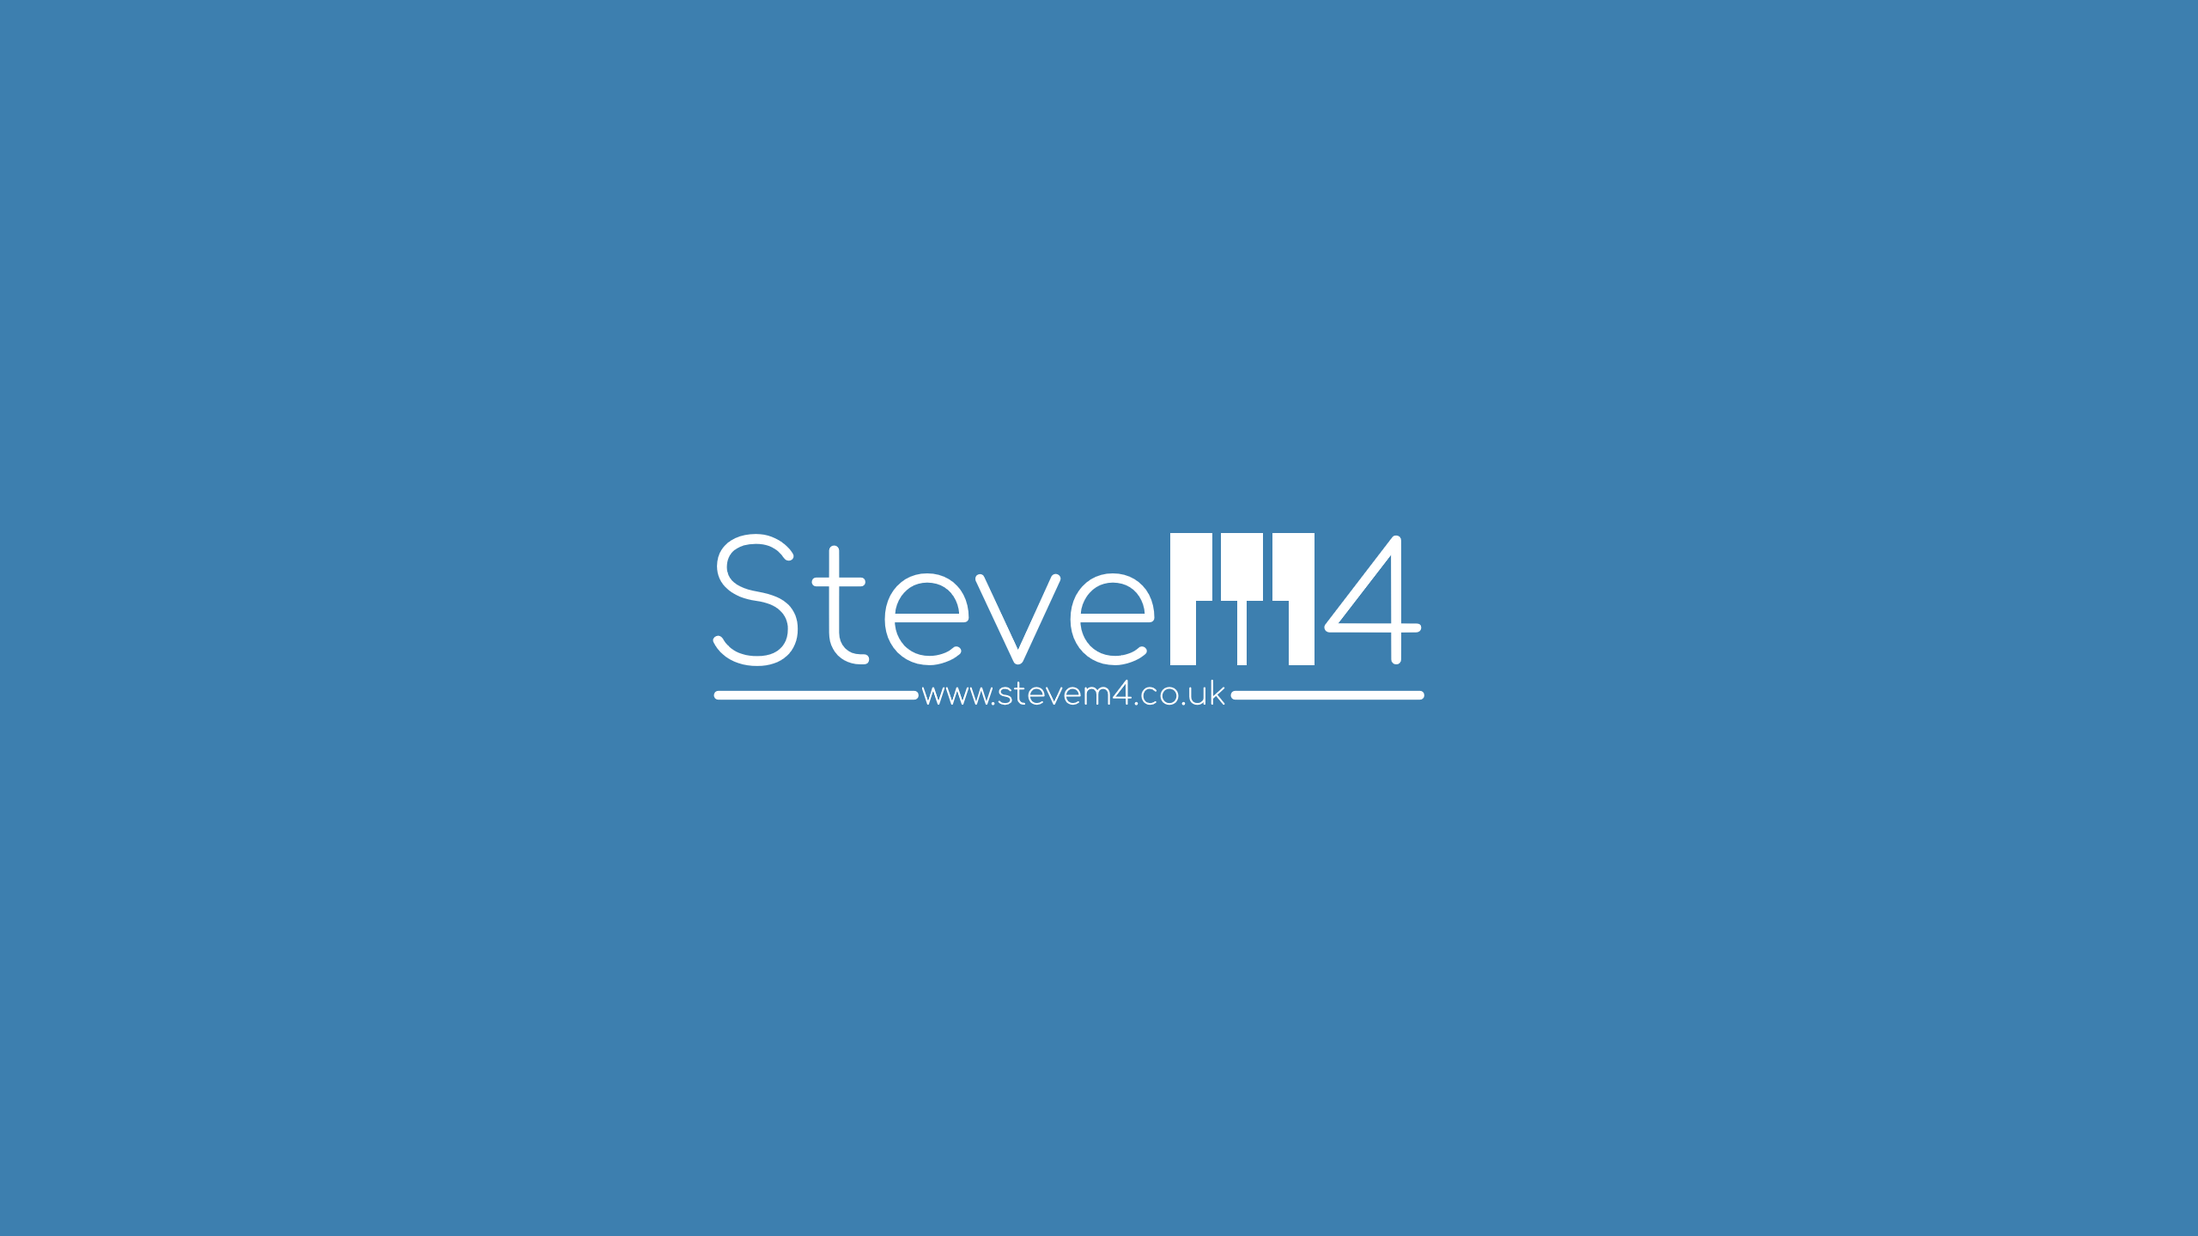
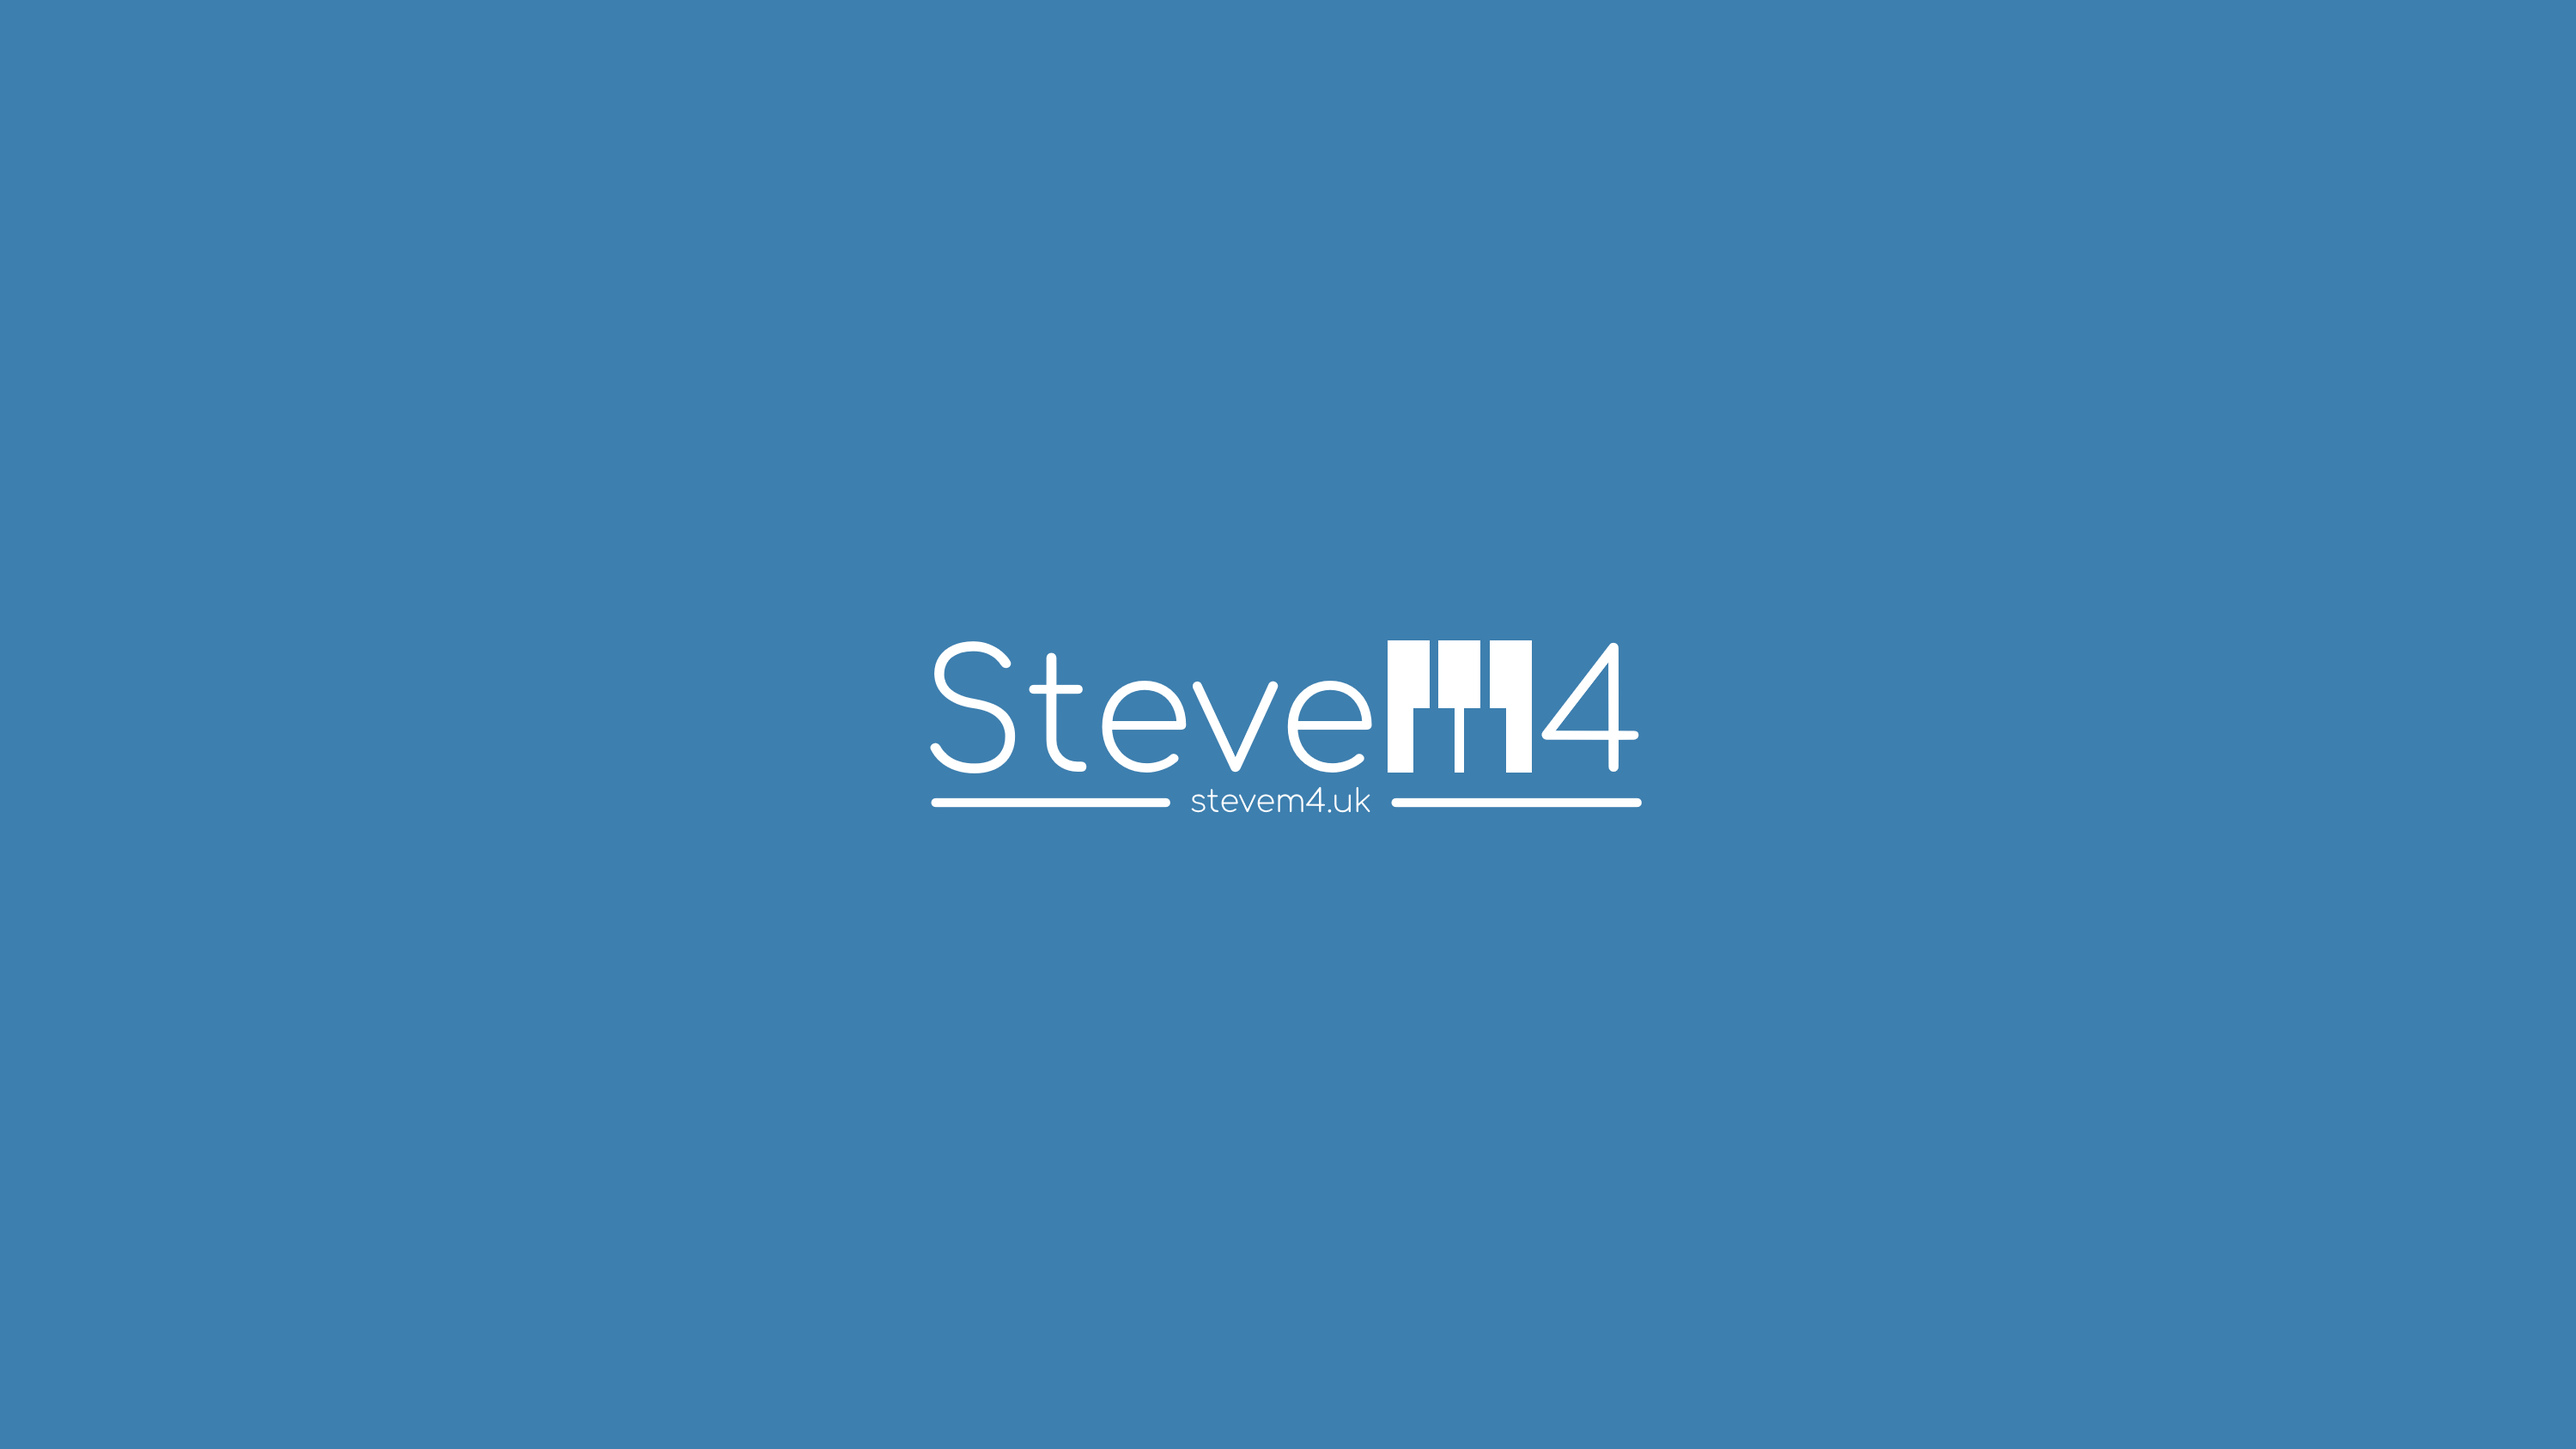
Add files via upload

Changed region(s): [[0.3125, 0.4062, 0.6562, 0.5938]]

diff --git a/index.html b/index.html
@@ -4,7 +4,7 @@
 <meta name="twitter:site" content="@tunesbystevem4">
 <meta name="twitter:creator" content="@stevemagnet">
 <meta name="twitter:title" content="SteveM4.uk">
-<meta name="twitter:description" content="SteveM4.co.uk, the official site.">
+<meta name="twitter:description" content="SteveM4.uk, the official site.">
 <meta name ="twitter:image" content = "res/img/twitter-card.jpg">
 <link rel="apple-touch-icon" sizes="180x180" href="/res/ico/apple-touch-icon.png">
 <link rel="icon" type="image/png" sizes="32x32" href="/res/ico/favicon-32x32.png">
@@ -250,10 +250,52 @@
 		
 	</div>
 </div>
+
+<div id = 'contact' class = 'comfortaa hide-contact'>
+	<h3>Contact me</h3>
+	<p>I am pretty easy to get hold of.</p>
+	<p>
+		Want me to produce music for you?</br>
+		Please send me a DM on my music Twitter</br>
+		<a href = 'https://twitter.com/tunesbystevem4'>@TunesBySteveM4</a>
+	</p>
+	<p>
+		Do you want a website like mine?</br>
+		Send an email to <i>sa.whitehouse@gmail.com</i></br>
+		<small>Make sure the subject starts with <b>Website Enquiry</b></small>
+	</p>
+		
+</div>
+
+<div id = 'links' class = 'comfortaa hide-links'>
+	<h3>Links</h3>
+	<p>Here is a full list of links.</p>
+	<p>
+		<b>Twitter:</b></br>
+		Music: <a href = 'https://twitter.com/tunesbystevem4'>@TunesBySteveM4</a></br>
+		Personal: <a href = 'https://twitter.com/stevemagnet'>@SteveMagnet</a>
+	</p>
+	<p>
+		<b>YouTube:</b></br>
+		Music: <a href = 'https://www.youtube.com/channel/UCy_IQtbhd9Xw5lA1OsuGl7g?view_as=subscriber'>SteveM4 (Music)</a></br>
+		Personal: <a href = 'https://www.youtube.com/channel/UCGlumu9s1glPS4Db761kxCA?view_as=subscriber'>SteveM4</a></br>
+		Gaming: <a href = 'https://www.youtube.com/channel/UCtVJ3uWWgqDS88aWD-6aDFg?view_as=subscriber'>Steve's Stuff</a>
+	</p>	
+	<p>
+		<b>SoundCloud:</b></br>
+		Current:<a href = 'https://soundcloud.com/s_t_e_v_e_m_4'>SteveM4</a></br>
+		Archive:<a href = 'https://soundcloud.com/splint_r'>SplintR</a>
+	</p>
+	<p>
+		<b>Steam:</b></br>
+		Steam Workshop: <a href = 'https://steamcommunity.com/id/stevem4gnet/myworkshopfiles/'>SteveM4</a>
+	</p>
+</div>
+
 <div id="footer" class="comfortaa">
-    <p class = 'pointer' onclick = 'contactMe()'>Contact</p>
-    <p class = 'pointer' onclick = 'aboutMe()'>About</p>
-    <p class = 'pointer' onclick = 'links()'>Links</p>
+    <button class = 'pointer' onclick = 'contactMe()'>Contact</button>
+    <button class = 'pointer' onclick = 'aboutMe()'>About</button>
+    <button class = 'pointer' onclick = 'showLinks()'>Links</button>
 </div>
 
 <button id = 'force-mobile' onclick = 'forceMobile()' class = 'comfortaa'>Mobile View</button>

diff --git a/res/css/styles_default.css b/res/css/styles_default.css
@@ -412,3 +412,56 @@ p.footer
 {
 	top:92.5%;
 }
+
+#footer button {
+    position: relative;
+    width: 33%;
+    height: 100%;
+    margin-right: -0.6%;
+    background: rgba(0,0,0,0);
+    border: none;
+    color: #fff;
+    font-family: 'comfortaa';
+    transform: translate(0, -30%);
+    text-decoration: underline;
+}
+
+
+
+.hide-contact, .hide-links
+{
+	position: absolute;
+    bottom: -90%;
+    width: 90%;
+    left: 5%;
+    height: 30%;
+    background: #fff;
+    border: solid 0.5vh #3d7faf;
+    border-top-left-radius: 2.5vh;
+    border-top-right-radius: 2.5vh;
+    transition: 0.2s;
+	box-sizing:border-box;
+}
+
+.hide-links
+{
+	height: 50%;
+}
+
+#contact p, #links p
+{
+    left: 5%;
+    position: relative;
+    font-size: 2vh;
+}
+
+h3 
+{    
+	text-align: center;
+    color: #3d7faf;
+}
+
+.show-contact, .show-links
+{
+    bottom: 8%;
+}

diff --git a/res/css/styles_mobile.css b/res/css/styles_mobile.css
@@ -249,3 +249,43 @@ p#myLatest
 button#force-mobile {
 	display:none;
 }
+
+
+
+.hide-contact, .hide-links
+{
+	position: absolute;
+    bottom: -90%;
+    width: 90%;
+    left: 5%;
+    height: 30%;
+    background: #fff;
+    border: solid 0.5vh #3d7faf;
+    border-top-left-radius: 2.5vh;
+    border-top-right-radius: 2.5vh;
+    transition: 0.2s;
+	box-sizing:border-box;
+}
+
+.hide-links
+{
+	height: 50%;
+}
+
+#contact p, #links p
+{
+    left: 5%;
+    position: relative;
+    font-size: 2vh;
+}
+
+h3 
+{    
+	text-align: center;
+    color: #3d7faf;
+}
+
+.show-contact, .show-links
+{
+    bottom: 8%;
+}

diff --git a/res/js/scripts.js b/res/js/scripts.js
@@ -152,3 +152,15 @@ function aboutMe()
 	}
 	
 }
+
+function contactMe()
+{
+	var contactMeWindow = document.querySelector('#contact');
+	contactMeWindow.classList.toggle('show-contact');
+}
+
+function showLinks()
+{
+	var linksWindow = document.querySelector('#links');
+	linksWindow.classList.toggle('show-links');
+}

diff --git a/res/css/styles_desktop.css b/res/css/styles_desktop.css
@@ -254,3 +254,8 @@ button#force-mobile
 	border-bottom-left-radius:1vh;
 	font-size:1.5vh;
 }
+
+#footer button
+{
+	transform: translate(0,0);
+}
